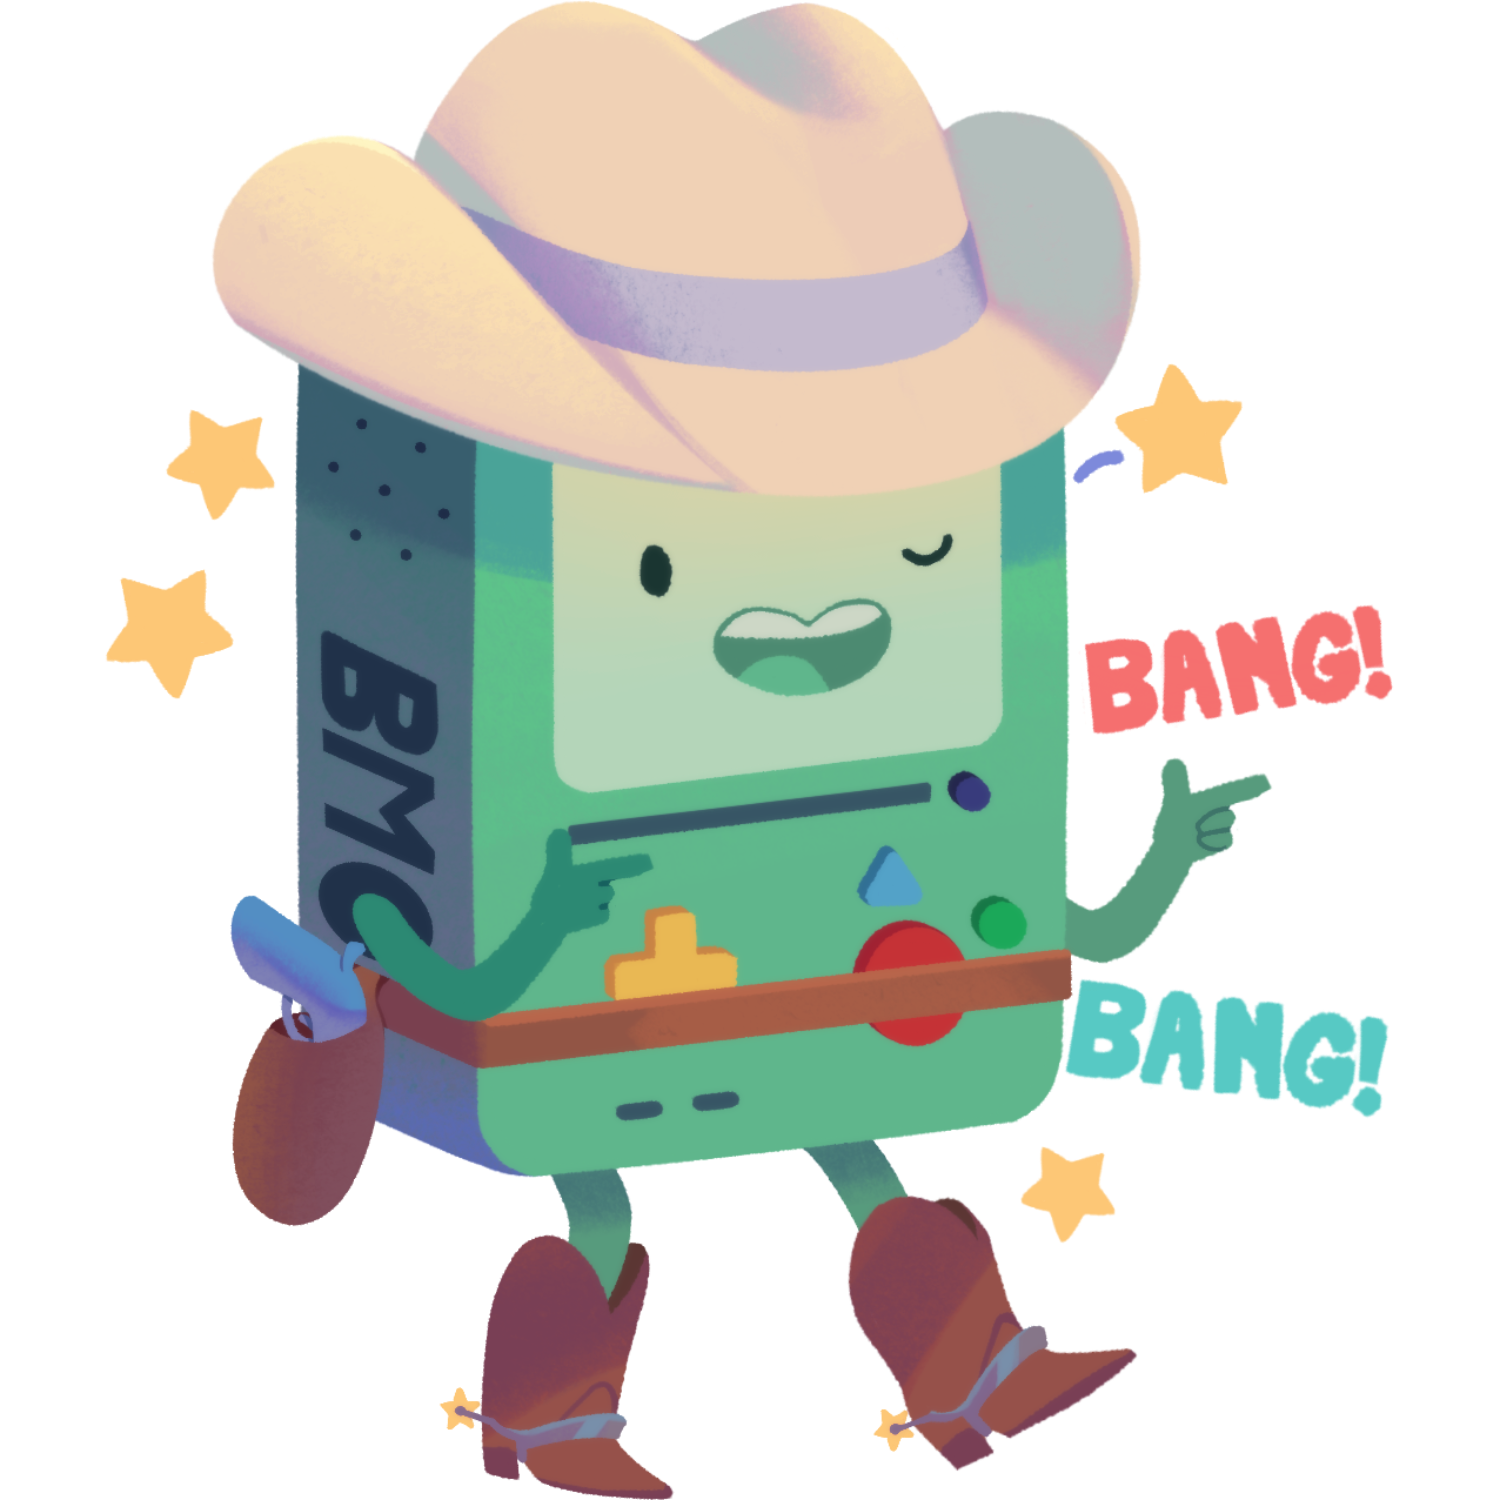
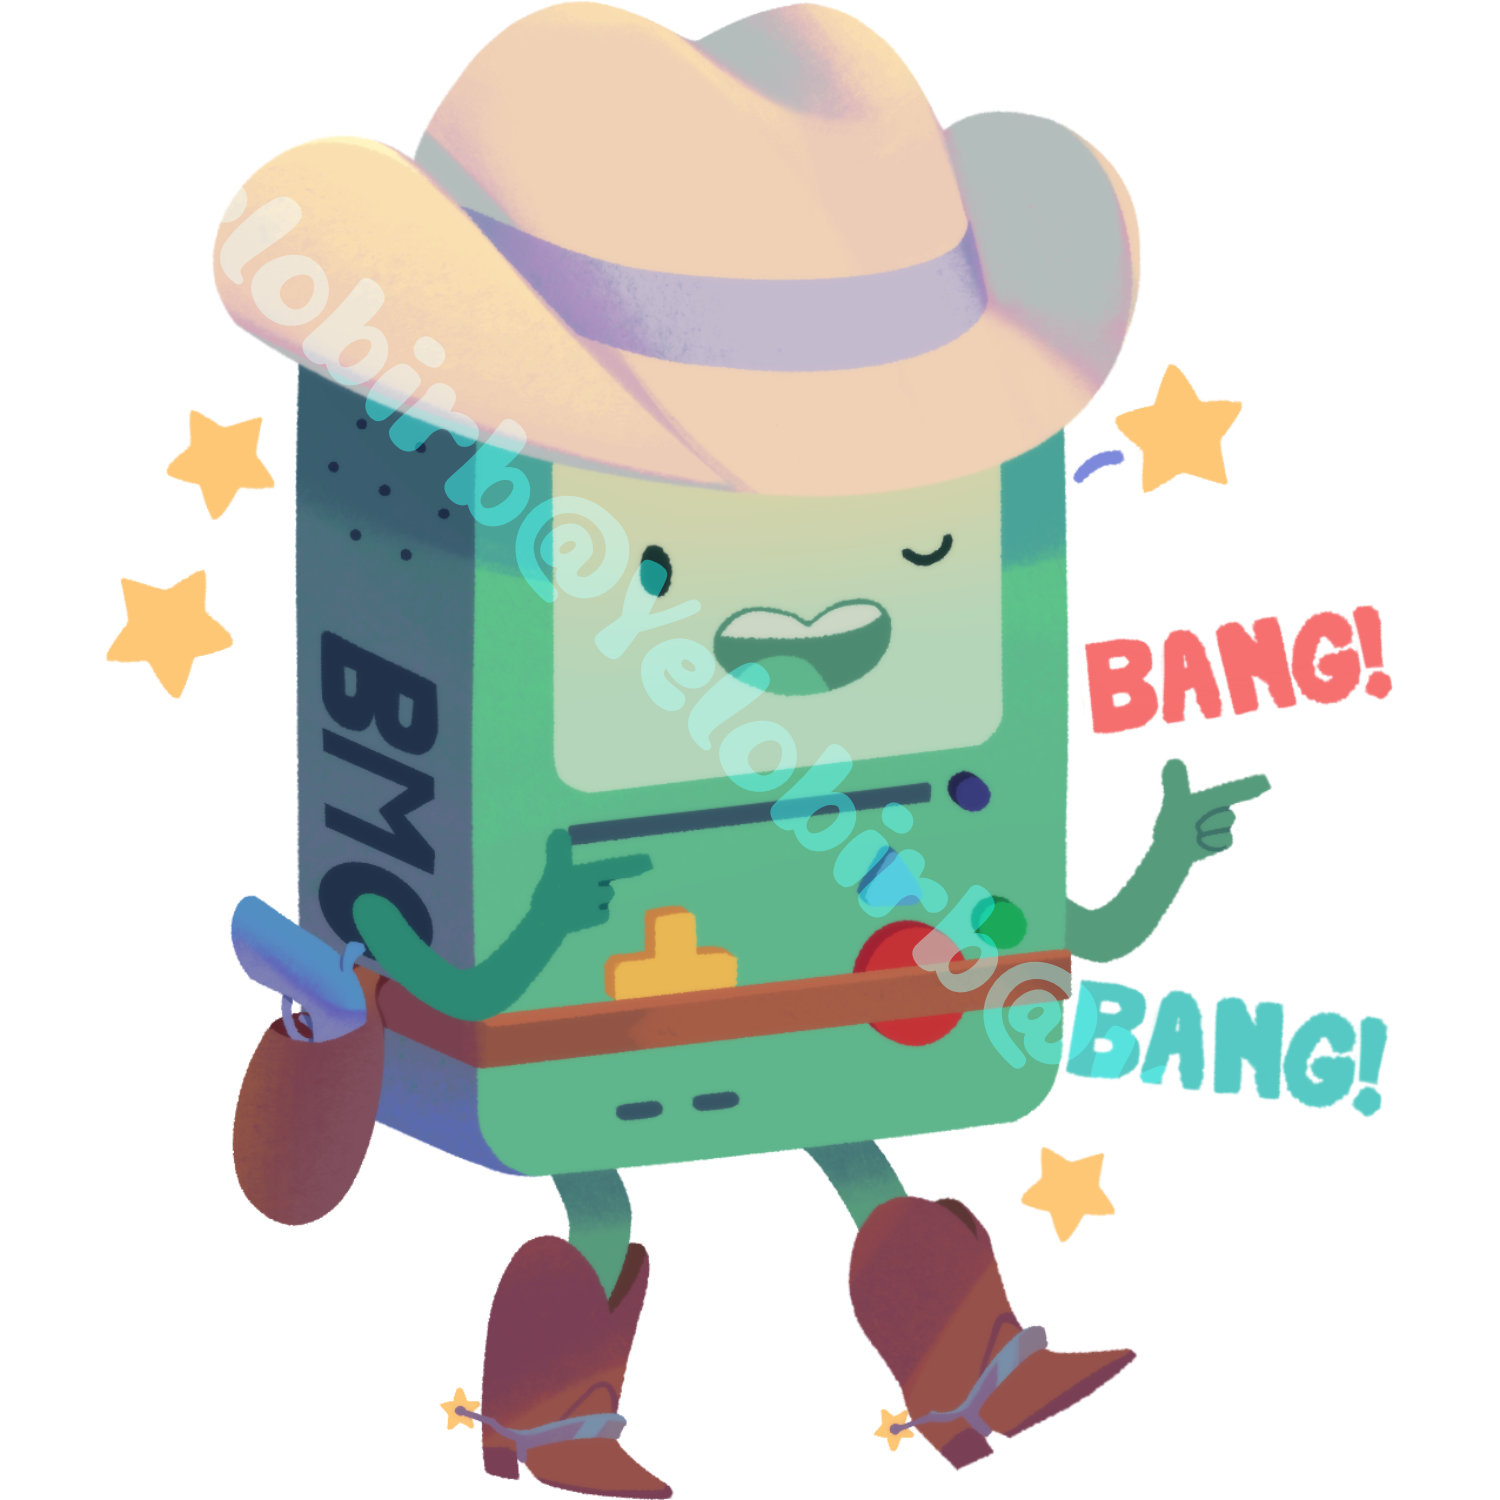
Updated images with water marks- 1st batch

Changed region(s): [[0.1227, 0.1227, 0.7667, 0.736]]

diff --git a/gallery.html b/gallery.html
@@ -27,7 +27,7 @@
          <h3></h3>
       </div>
       <div class="image-container">
-         <div class="image"><img src="img/img-26.jpeg" alt="Person and robots lying in grass">
+         <div class="image"><img src="img/img-26.png" alt="Person and robots lying in grass">
             <div class="image-title">
                <p>Harmony</p>
             </div>
@@ -42,7 +42,7 @@
                <p>Nahida</p>
             </div>
          </div>
-         <div class="image"><img src="img/img-28.jpeg" alt="Female magician with a wand">
+         <div class="image"><img src="img/img-28.png" alt="Female magician with a wand">
             <div class="image-title">
                <p>Assassin</p>
             </div>
@@ -57,7 +57,7 @@
                <p>Makima</p>
             </div>
          </div>
-         <div class="image"><img src="img/img-27.jpeg" alt="Young woman in purple kimono">
+         <div class="image"><img src="img/img-27.png" alt="Young woman in purple kimono">
             <div class="image-title">
                <p>Raiden</p>
             </div>
